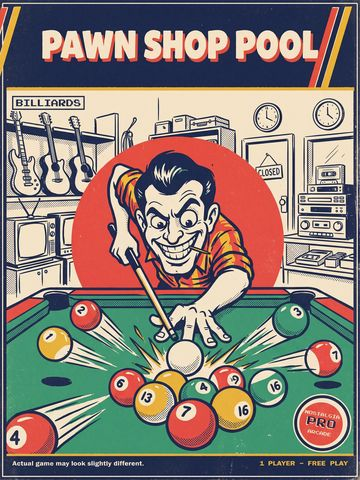
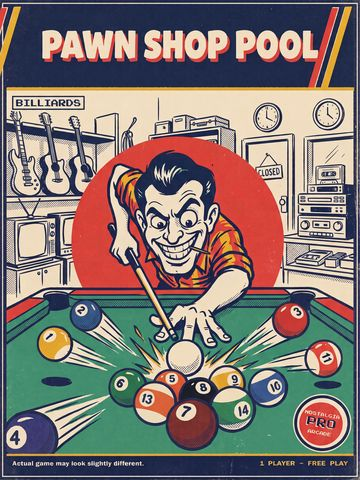
Arcade: fixed covers for Pawn Shop Pool (06) and Table Rink Rumble (10), new Creature Feature KO cover (11) on its spotlight and vault card with pixel art kept as fallback, live and test, sw.js v38

diff --git a/arcade/seasonal.js b/arcade/seasonal.js
@@ -12,7 +12,7 @@ window.NP_SEASONS = {
       slug: "creature-feature-ko", name: "Creature Feature KO", href: "creature-feature-ko/", accent: "#ff8a1f",
       kicker: "SEASONAL SPECIAL: HALLOWEEN", genre: "Halloween boss rush", fmt: "pts",
       hook: "The late show ran long and the monsters climbed out of the tapes. Seven boss fights, one collector, a pocket full of candy corn. Slide to dodge, stand under to hit.",
-      art: "halloween" },
+      art: "halloween", cover: "covers/11-creature-feature-ko" },
     { id: "thanksgiving", label: "Thanksgiving", start: "11-20", end: "11-30", status: "soon", name: "", href: "", accent: "#e0662a" },
     { id: "winter", label: "Winter holidays", start: "12-08", end: "12-28", status: "soon", name: "", href: "", accent: "#3ff0ff" },
     { id: "new-year", label: "New Year", start: "12-29", end: "01-04", status: "soon", name: "", href: "", accent: "#ffd23f" },
@@ -94,6 +94,10 @@ window.NP_SEASONS = {
   }
 
   // Hero slot
+  function coverPic(c, cls, lazy) {
+    return c ? '<picture' + (cls ? ' class="' + cls + '"' : '') + '><source srcset="' + esc(c) + '.webp" type="image/webp"><img src="' + esc(c) + '.jpg" width="360" height="480" alt=""' + (lazy ? ' loading="lazy"' : '') + ' decoding="async"></picture>' : "";
+  }
+  function pixelArt(key, withCover) { var a = ART[key] || ""; return withCover ? a.replace("<svg ", '<svg class="cab-fallback" ') : a; }
   var slot = document.getElementById("featured");
   if (slot) {
     var g, kicker, until = "", art;
@@ -101,11 +105,11 @@ window.NP_SEASONS = {
       g = active; kicker = active.kicker || ("SEASONAL SPECIAL: " + active.label.toUpperCase());
       var mo = ["Jan", "Feb", "Mar", "Apr", "May", "Jun", "Jul", "Aug", "Sep", "Oct", "Nov", "Dec"][Number(active.end.slice(0, 2)) - 1];
       until = "Featured through " + mo + " " + Number(active.end.slice(3)) + ". Free, like everything here.";
-      art = ART[active.art] || "";
+      art = coverPic(active.cover) + pixelArt(active.art, !!active.cover);
     } else {
       var F = C.FEATURED, day = Math.floor((Date.now() - 7 * 3600e3) / 86400e3);
       g = F[day % F.length]; kicker = "FEATURED GAME"; until = "A new featured cabinet every day.";
-      art = g.cover ? '<picture><source srcset="' + esc(g.cover) + '.webp" type="image/webp"><img src="' + esc(g.cover) + '.jpg" width="360" height="480" alt="" decoding="async"></picture>' : "";
+      art = coverPic(g.cover);
     }
     slot.className = "feat" + (active ? " feat-season feat-" + esc(active.id) : "");
     slot.style.setProperty("--c", g.accent || "#3ff0ff");
@@ -139,7 +143,7 @@ window.NP_SEASONS = {
       var on = active && active.id === v.id;
       html += '<li data-genre="seasonal" data-ready><article class="cab" style="--c:' + esc(v.accent) + '" aria-labelledby="g-' + esc(v.slug) + '">' +
         '<div class="cab-marquee"><h2 id="g-' + esc(v.slug) + '">' + esc(v.name.toUpperCase()) + '</h2><span class="vault-tag">' + (on ? "IN SEASON" : "FROM THE VAULT") + '</span></div>' +
-        '<div class="cab-bezel"><div class="cab-screen">' + (ART[v.art] || "") + '</div></div>' +
+        '<div class="cab-bezel"><div class="cab-screen">' + coverPic(v.cover, "cab-cover", true) + pixelArt(v.art, !!v.cover) + '</div></div>' +
         '<p class="cab-genre">' + esc(v.label) + ' special</p>' +
         '<p class="cab-hook">' + esc(v.hook) + '</p>' +
         '<div class="cab-panel"><span class="stick" aria-hidden="true"></span><span class="pbtn a" aria-hidden="true"></span><span class="pbtn b" aria-hidden="true"></span>' +

diff --git a/arcade-test/seasonal.js b/arcade-test/seasonal.js
@@ -12,7 +12,7 @@ window.NP_SEASONS = {
       slug: "creature-feature-ko", name: "Creature Feature KO", href: "creature-feature-ko/index.html", accent: "#ff8a1f",
       kicker: "SEASONAL SPECIAL: HALLOWEEN", genre: "Halloween boss rush", fmt: "pts",
       hook: "The late show ran long and the monsters climbed out of the tapes. Seven boss fights, one collector, a pocket full of candy corn. Slide to dodge, stand under to hit.",
-      art: "halloween" },
+      art: "halloween", cover: "covers/11-creature-feature-ko" },
     // testOnly: built and playable, but only shows with ?season=thanksgiving until RC approves it.
     { id: "thanksgiving", label: "Thanksgiving", start: "11-20", end: "11-30", status: "live", testOnly: true,
       slug: "gravy-or-bust", name: "Gravy or Bust!", href: "gravy-or-bust/index.html", accent: "#e0662a",
@@ -129,6 +129,10 @@ window.NP_SEASONS = {
   }
 
   // Hero slot
+  function coverPic(c, cls, lazy) {
+    return c ? '<picture' + (cls ? ' class="' + cls + '"' : '') + '><source srcset="' + esc(c) + '.webp" type="image/webp"><img src="' + esc(c) + '.jpg" width="360" height="480" alt=""' + (lazy ? ' loading="lazy"' : '') + ' decoding="async"></picture>' : "";
+  }
+  function pixelArt(key, withCover) { var a = ART[key] || ""; return withCover ? a.replace("<svg ", '<svg class="cab-fallback" ') : a; }
   var slot = document.getElementById("featured");
   if (slot) {
     var g, kicker, until = "", art;
@@ -136,11 +140,11 @@ window.NP_SEASONS = {
       g = active; kicker = active.kicker || ("SEASONAL SPECIAL: " + active.label.toUpperCase());
       var mo = ["Jan", "Feb", "Mar", "Apr", "May", "Jun", "Jul", "Aug", "Sep", "Oct", "Nov", "Dec"][Number(active.end.slice(0, 2)) - 1];
       until = "Featured through " + mo + " " + Number(active.end.slice(3)) + ". Free, like everything here.";
-      art = ART[active.art] || "";
+      art = coverPic(active.cover) + pixelArt(active.art, !!active.cover);
     } else {
       var F = C.FEATURED, day = Math.floor((Date.now() - 7 * 3600e3) / 86400e3);
       g = F[day % F.length]; kicker = "FEATURED GAME"; until = "A new featured cabinet every day.";
-      art = g.cover ? '<picture><source srcset="' + esc(g.cover) + '.webp" type="image/webp"><img src="' + esc(g.cover) + '.jpg" width="360" height="480" alt="" decoding="async"></picture>' : "";
+      art = coverPic(g.cover);
     }
     slot.className = "feat" + (active ? " feat-season feat-" + esc(active.id) : "");
     slot.style.setProperty("--c", g.accent || "#3ff0ff");
@@ -175,7 +179,7 @@ window.NP_SEASONS = {
       var on = active && active.id === v.id;
       html += '<li data-genre="seasonal" data-ready><article class="cab" style="--c:' + esc(v.accent) + '" aria-labelledby="g-' + esc(v.slug) + '">' +
         '<div class="cab-marquee"><h2 id="g-' + esc(v.slug) + '">' + esc(v.name.toUpperCase()) + '</h2><span class="vault-tag">' + (on ? "IN SEASON" : "FROM THE VAULT") + '</span></div>' +
-        '<div class="cab-bezel"><div class="cab-screen">' + (ART[v.art] || "") + '</div></div>' +
+        '<div class="cab-bezel"><div class="cab-screen">' + coverPic(v.cover, "cab-cover", true) + pixelArt(v.art, !!v.cover) + '</div></div>' +
         '<p class="cab-genre">' + esc(v.label) + ' special</p>' +
         '<p class="cab-hook">' + esc(v.hook) + '</p>' +
         '<div class="cab-panel"><span class="stick" aria-hidden="true"></span><span class="pbtn a" aria-hidden="true"></span><span class="pbtn b" aria-hidden="true"></span>' +

diff --git a/arcade/index.html b/arcade/index.html
@@ -193,7 +193,8 @@
       <article class="cab" style="--c:#ff4b3e" aria-labelledby="g-pool">
         <div class="cab-marquee"><h2 id="g-pool">PAWN SHOP POOL</h2></div>
         <div class="cab-bezel"><div class="cab-screen">
-          <svg viewBox="0 0 64 48" shape-rendering="crispEdges" aria-hidden="true">
+          <picture class="cab-cover"><source srcset="covers/06-pawn-shop-pool.webp" type="image/webp"><img src="covers/06-pawn-shop-pool.jpg" width="360" height="480" alt="" loading="lazy" decoding="async"></picture>
+          <svg class="cab-fallback" viewBox="0 0 64 48" shape-rendering="crispEdges" aria-hidden="true">
             <rect width="64" height="48" fill="#12141c"/>
             <rect x="6" y="8" width="52" height="34" fill="#5a3a1e"/><rect x="10" y="12" width="44" height="26" fill="#14613f"/>
             <rect x="9" y="11" width="3" height="3" fill="#050607"/><rect x="31" y="10" width="3" height="3" fill="#050607"/><rect x="52" y="11" width="3" height="3" fill="#050607"/><rect x="9" y="36" width="3" height="3" fill="#050607"/><rect x="31" y="37" width="3" height="3" fill="#050607"/><rect x="52" y="36" width="3" height="3" fill="#050607"/>
@@ -289,7 +290,8 @@
       <article class="cab" style="--c:#ff3fa4" aria-labelledby="g-table">
         <div class="cab-marquee"><h2 id="g-table">TABLE RINK RUMBLE</h2></div>
         <div class="cab-bezel"><div class="cab-screen">
-          <svg viewBox="0 0 64 48" shape-rendering="crispEdges" aria-hidden="true">
+          <picture class="cab-cover"><source srcset="covers/10-table-rink-rumble.webp" type="image/webp"><img src="covers/10-table-rink-rumble.jpg" width="360" height="480" alt="" loading="lazy" decoding="async"></picture>
+          <svg class="cab-fallback" viewBox="0 0 64 48" shape-rendering="crispEdges" aria-hidden="true">
             <rect width="64" height="48" fill="#12141c"/>
             <rect x="14" y="2" width="36" height="44" fill="#2c3040"/><rect x="16" y="4" width="32" height="40" fill="#1e3a63"/>
             <rect x="26" y="3" width="12" height="2" fill="#050607"/><rect x="26" y="43" width="12" height="2" fill="#050607"/>

diff --git a/sw.js b/sw.js
@@ -1,5 +1,5 @@
 /* Bump this string whenever you upload new files, or phones keep the old ones. */
-const CACHE = "nostalgiapro-v37";
+const CACHE = "nostalgiapro-v38";
 
 const PAGES = [
   "/", "/index.html", "/anniversaries.html", "/consoles.html", "/reviews.html",
